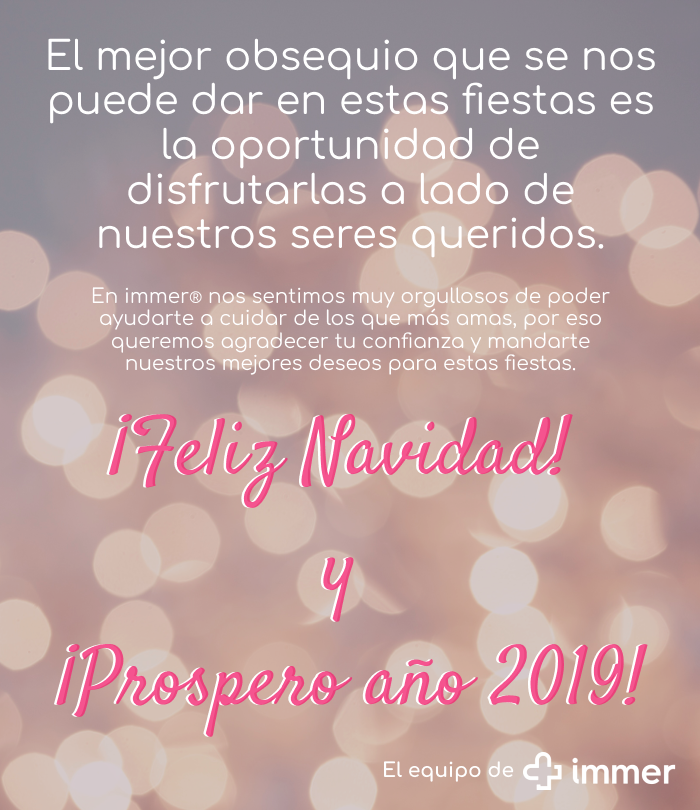
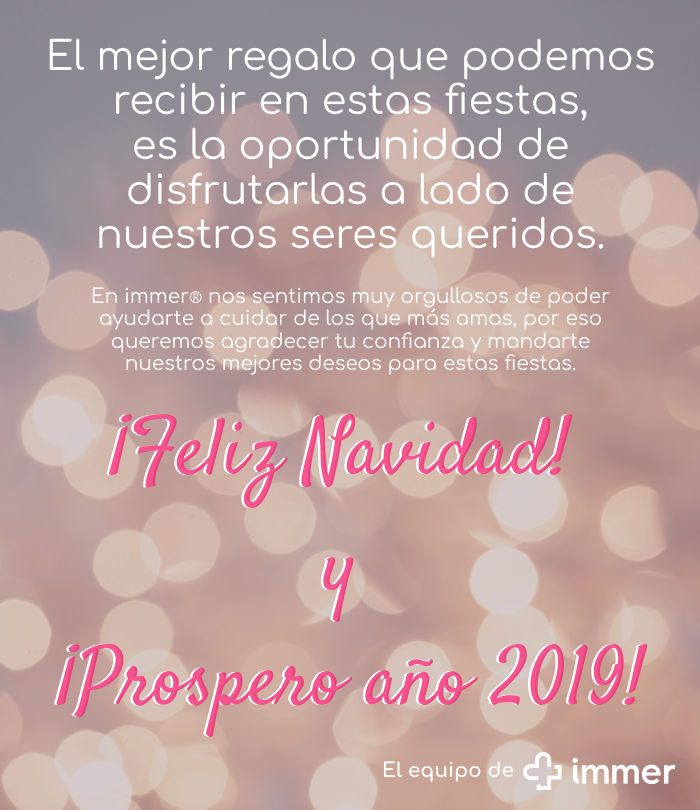
correo festivo doctor y corrección texto pacientes

Changed region(s): [[0.06, 0.0309, 0.93, 0.216]]

diff --git a/views/felizNavidadDoctor.html b/views/felizNavidadDoctor.html
@@ -1,0 +1,39 @@
+<!DOCTYPE html>
+<html lang="en" dir="ltr">
+  <head>
+    <meta charset="utf-8">
+    <title>Feliz-Navidad-doctor</title>
+  </head>
+  <body style="background-color: #FFFFFF; margin: 0; min-width: 320px; padding: 0;">
+    <div align="center" style="margin: 0 auto; max-width: 667px; min-width: 320px;" width="100%">
+      <div style="color: #333333; font-family: verdana, verdana, sans-serif;">
+        <p style="font-size: .6em; margin: 0;">Si no puedes ver este mensaje correctamente haz click <a href="#" style="color: #666666;" target="_blank">aquí</a></p>
+        <img src="../assets/images/logo-immer.png" alt="Logo" style="display: block; width: 20%; height: auto;">
+        <div style="background-image: url(../assets/images/immer-fondo2.png); background-size: cover; display: block; height: 30px; width: 90%;">
+        </div>
+
+        <div style="background-color: transparent; display: block; height: auto; width: 90%;">
+          <div align="center" style="display: inline-grid; height: auto; width: 100%">
+            <img src="../assets/images/FelicesFiestasDoctor.png" alt="Tarjeta" style="display: block; width: 100%; height: auto;">
+          </div>
+        </div>
+
+        <div style="background-image: url(../assets/images/immer-fondo2.png); background-position: bottom; background-size: cover; display: block; width: 90%;">
+          <hr style="width: 90%">
+          <p style="font-size: .6em; margin: 0;">&#169; 2018 Immer. Todos los derechos reservados. </p>
+          <p style="font-size: .6em; margin: 0;">Este correo fue enviado para XXXXXXX.</p>
+          <p style="font-size: .6em; margin: 0;">Si no eres el usuario o si deseas ser borrado de nuestro listado de envíos sólo haz clic
+            <a href="#" style="color: #666666;" target="_blank">aquí</a>.
+          </p>
+          <p style="font-size: .6em; margin: 0; width: 90%">
+            Este mensaje de correo electrónico se ha enviado desde una dirección exclusivamente para envíos.
+            No responda a este mensaje.
+          </p>
+        </div>
+      </div>
+      <a href="http://www.immermedical.com/index.html" target="_blank">
+        <img src="../assets/images/logo-immer.png" alt="Logo" style="display: block; width: 20%; height: auto;">
+      </a>
+    </div>
+  </body>
+</html>
